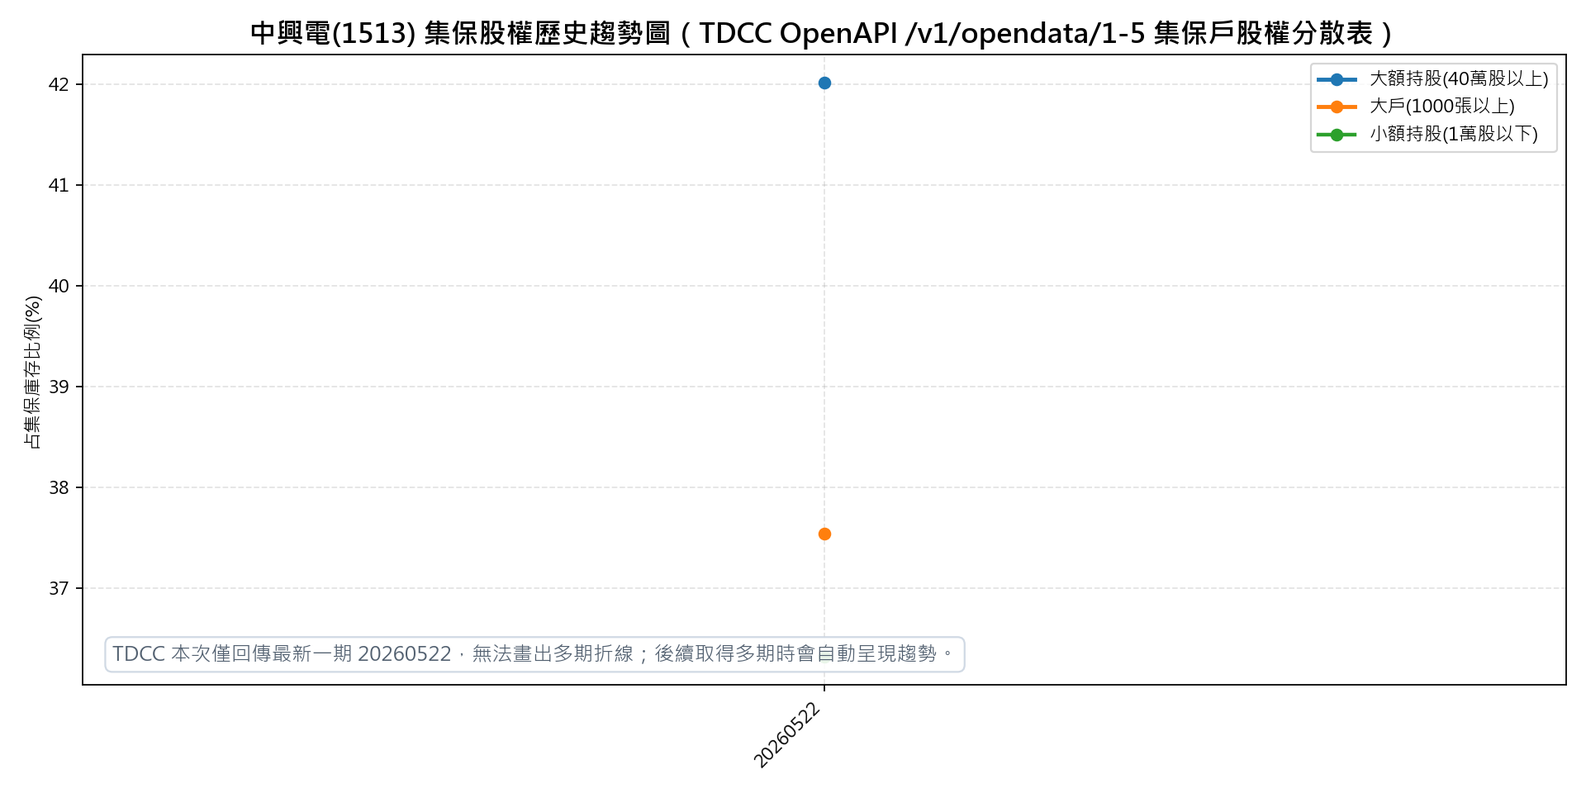
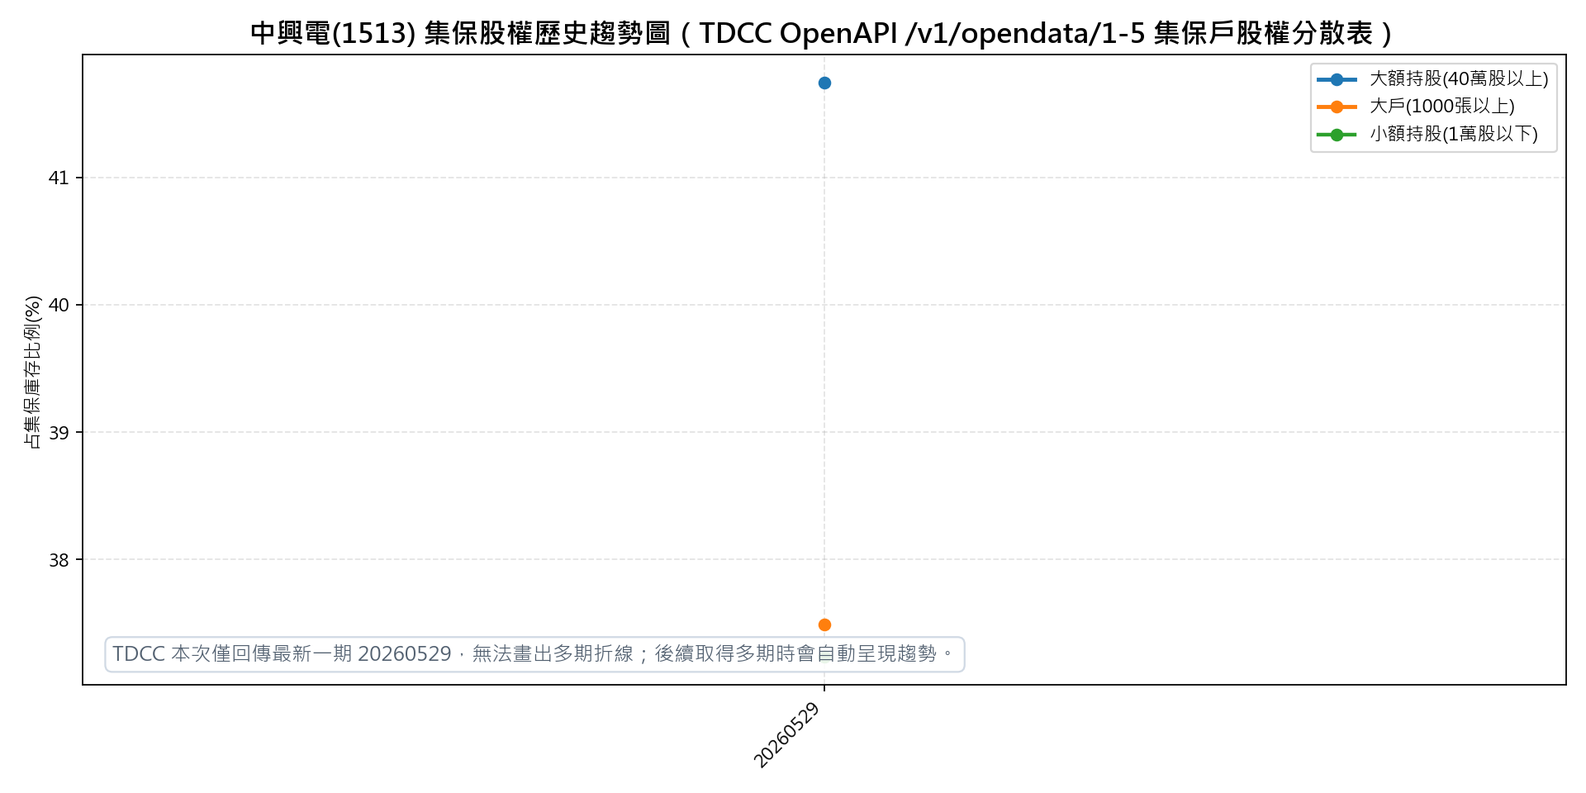
Publish stock report 1513_2026-05-30

diff --git a/1513_2026-05-30/index.html b/1513_2026-05-30/index.html
@@ -72,13 +72,22 @@
     details[open] > summary::after { content: "收合"; }
     .detail-body { padding: 0 16px 16px; }
     .detail-body ul { margin: 0; padding-left: 20px; line-height: 1.75; }
+    .summary-decision {
+      border-left: 4px solid #2563eb;
+      background: #eff6ff;
+      color: #0f172a;
+      padding: 10px 12px;
+      margin-bottom: 10px;
+      font-weight: 700;
+      line-height: 1.55;
+    }
     .summary-grid { display: grid; grid-template-columns: repeat(4, minmax(0, 1fr)); gap: 10px; }
     .summary-card {
       border: 1px solid #dde4ef;
       border-radius: 8px;
       padding: 12px;
       background: #f8fafc;
-      min-height: 82px;
+      min-height: 78px;
     }
     .summary-card span { display: block; color: #64748b; font-size: 13px; margin-bottom: 7px; }
     .summary-card strong { display: block; color: #111827; font-size: 15px; line-height: 1.45; }
@@ -114,6 +123,7 @@
       .table-scroll th, .table-scroll td { display: table-cell; width: auto; min-width: 120px; padding: 7px 8px; border-bottom: 1px solid #e7ebf2; }
       .table-scroll tr { display: table-row; border-bottom: 0; padding: 0; }
       .summary-grid { grid-template-columns: repeat(2, minmax(0, 1fr)); gap: 8px; }
+      .summary-decision { padding: 9px 10px; font-size: 13px; }
       .summary-card { min-height: auto; padding: 9px; }
       .summary-card strong { font-size: 13px; }
       .freshness-grid { grid-template-columns: repeat(2, minmax(0, 1fr)); gap: 8px; }
@@ -134,17 +144,20 @@
 <body>
   <header>
     <h1>中興電(1513) 台股技術分析報告</h1>
-    <div>產生時間：2026-05-30T22:52:28+08:00</div>
+    <div>產生時間：2026-05-30T23:38:03+08:00</div>
   </header>
   <main>
     
     <section class="panel conclusion">
       <h2>結論摘要</h2>
+      <div class="summary-decision">偏多強勢，偏多震盪 / 偏多震盪 / 中性 185 元；現價差 -10.2%；合理偏低區：若技術面轉強，具估值修復條件</div>
       <div class="summary-grid"><div class="summary-card"><span>趨勢</span><strong>偏多強勢，偏多震盪</strong></div>
-<div class="summary-card"><span>明日觀察</span><strong>量價中性偏弱；MA5 165.20 / MA10 158.40</strong></div>
-<div class="summary-card"><span>買賣點</span><strong>買：已突破 162.30 且站穩，回測不破可偏多續抱；賣：跌破 158.40，先降權重；上升通道有效分數 7.4。</strong></div>
-<div class="summary-card"><span>支撐</span><strong>第一 165.20 / 第二 158.40 / 強 156.88</strong></div>
-<div class="summary-card"><span>壓力</span><strong>177.00</strong></div>
+<div class="summary-card"><span>估值</span><strong>中性 185 元；現價差 -10.2%；合理偏低區：若技術面轉強，具估值修復條件</strong></div>
+<div class="summary-card"><span>支撐 / 壓力</span><strong>第一 165.20 / 第二 158.40 / 強 156.88 / 壓力 177.00</strong></div>
+<div class="summary-card"><span>觀察</span><strong>量價中性偏弱；MA5 165.20 / MA10 158.40</strong></div>
+<div class="summary-card"><span>買點</span><strong>已突破 162.30 且站穩，回測不破可偏多續抱</strong></div>
+<div class="summary-card"><span>賣點 / 風險</span><strong>跌破 158.40，先降權重；跌破 MA10 158.40 且放量，短線轉弱
+跌破 MA20 156.88 則整理擴大</strong></div>
 <div class="summary-card"><span>獲利率</span><strong>毛利率 25.98% / 營益率 18.54%</strong></div></div>
     </section>
     
@@ -156,7 +169,7 @@
 <li><span>季報</span><strong>2026-03-31</strong></li>
 <li><span>法人</span><strong>2026-05-29</strong></li>
 <li><span>融資融券</span><strong>2026-05-29</strong></li>
-<li><span>集保</span><strong>20260522</strong></li>
+<li><span>集保</span><strong>20260529</strong></li>
 <li><span>ETF</span><strong>2026-05-29</strong></li></ul>
     </section>
     
@@ -165,39 +178,34 @@
       <h2>GPT-5.5 深度分析</h2>
       <div class="deep-analysis-body">
         <h2>中興電(1513) 深度分析</h2>
-<ul><li>產生時間：2026-05-30T22:52:31+08:00</li></ul>
+<ul><li>產生時間：2026-05-30T23:20:53+08:00</li></ul>
 <h3>1. 核心結論</h3>
 <p>中興電(1513)：偏多強勢，偏多震盪；站穩 MA10 158.40 並突破 177.00 才有續攻機會，跌破 MA20 156.88 轉防守。</p>
-<h3>2. 技術面</h3>
-<ul><li>觀察重點：量價中性偏弱；明日觀察 MA5 165.20 / MA10 158.40</li><li>支撐：第一 165.20 / 第二 158.40 / 強 156.88</li><li>壓力：177.00</li><li>風險：跌破 MA10 158.40 且放量，短線轉弱；跌破 MA20 156.88 則整理擴大</li></ul>
+<h3>2. 技術面與操作</h3>
+<ul><li>觀察重點：量價中性偏弱；明日觀察 MA5 165.20 / MA10 158.40</li><li>支撐：第一 165.20 / 第二 158.40 / 強 156.88</li><li>壓力：177.00</li><li>風險：跌破 MA10 158.40 且放量，短線轉弱；跌破 MA20 156.88 則整理擴大</li><li>買賣點建議：買點：已突破 162.30 且站穩，回測不破可偏多續抱；賣點：跌破 158.40，先降權重。依據：上升通道有效分數 7.4。</li></ul>
 <h3>3. 基本面與獲利率</h3>
-<ul><li>基本面狀態：月營收、估值與正式 EPS 已取得</li><li>是否支持股價：支持度中性。理由：近 3 個月營收動能轉弱、最新月營收年增為正、正式 EPS 年增、毛利率較去年同期改善、稅後淨利率較去年同期改善、ROE 較去年同期下滑、營業費用率較去年同期上升。</li><li>財報推算股價：保守 139 元 / 中性 185 元 / 樂觀 220 元；產業模型：訂單能見度 PER（PER 下限 9.0x / 上限 35.0x）；近四季 EPS 8.23；前瞻 EPS 估 9.34（成長假設 +13.5%）；估值 PER 16.9x / 19.8x / 23.5x；催化溢價：營業利益率具支撐（+3%）；目前 PER 20.2x 納入中性估值權重；歷史 PER 分位 Q25/Q50/Q75=19.4x/21.1x/22.6x；目前 PER 位於近一年 43% 分位；市場情境 20x/25x/30x=165/206/247 元；ROE/PB 交叉參考 44 元；現價 166.50 元，較中性估值 -10.2%；現價略低於中性估值；合理偏低區：若技術面轉強，具估值修復條件</li><li>細節請看基本面圖表與摘要表格。</li></ul>
-<h3>4. 新聞與同族群</h3>
-<ul><li>新聞狀態：新聞面偏利多（利多 1 / 利空 0 / 中性 8）</li><li>公告 / 法說：近 120 天公告/法說追蹤 4 則（法說會 0 / 公告 4）</li><li>同族群比較：中興電(1513)、華城(1519)、東元(1504)、士電(1503)、大同(2371)</li><li>產業定位 / 產品組合：中興電(1513) 定位：重電設備 / 變壓器 / 電力工程；主要產品：族群共通：變壓器、開關設備、配電盤、電力工程；同族群比較基準：重電 / 變壓器 / 電力設備。對照族群涵蓋：重電設備 / 變壓器 / 電力工程。</li></ul>
-<h3>5. 操作情境</h3>
-<ul><li>買賣點建議：買點：已突破 162.30 且站穩，回測不破可偏多續抱；賣點：跌破 158.40，先降權重。依據：上升通道有效分數 7.4。</li><li>偏多：站穩支撐並突破壓力。</li><li>中性：支撐與壓力間震盪，等待方向。</li><li>轉弱：跌破支撐或失守均線，先降部位。</li></ul>
-<h3>6. LINE 短摘要</h3>
-<p>中興電(1513)：偏多強勢，偏多震盪；站穩 MA10 158.40 並突破 177.00 才有續攻機會，跌破 MA20 156.88 轉防守。 觀察支撐 第一 165.20 / 第二 158.40 / 強 156.88、壓力 177.00。</p>
-<p>&gt; 備註：Codex 本地分析模式；未使用 OpenAI API。</p>
+<ul><li>基本面狀態：月營收、估值與正式 EPS 已取得</li><li>是否支持股價：支持度中性。理由：近 3 個月營收動能轉弱、最新月營收年增為正、正式 EPS 年增、毛利率較去年同期改善、稅後淨利率較去年同期改善、ROE 較去年同期下滑、營業費用率較去年同期上升。</li><li>財報推算股價：保守 139 / 中性 185 / 樂觀 220 元；模型：訂單能見度 PER（PER 下限 9.0x / 上限 35.0x）；現價 166.50 元，較中性 -10.2%；合理偏低區：若技術面轉強，具估值修復條件</li></ul>
+<h3>4. 操作情境</h3>
+<ul><li>偏多：站穩支撐並突破壓力。</li><li>中性：支撐與壓力間震盪，等待方向。</li><li>轉弱：跌破支撐或失守均線，先降部位。</li></ul>
       </div>
     </section>
     
     
         <section class="panel chart-panel">
           <h2>01_日線完整技術與籌碼分析圖</h2>
-          <img src="01_日線完整技術與籌碼分析圖.png?v=2026-05-30T22:52:28+08:00" alt="01_日線完整技術與籌碼分析圖">
+          <img src="01_日線完整技術與籌碼分析圖.png?v=2026-05-30T23:38:03+08:00" alt="01_日線完整技術與籌碼分析圖">
         </section>
         
 
         <section class="panel chart-panel">
           <h2>02_周線完整技術與趨勢分析圖</h2>
-          <img src="02_周線完整技術與趨勢分析圖.png?v=2026-05-30T22:52:28+08:00" alt="02_周線完整技術與趨勢分析圖">
+          <img src="02_周線完整技術與趨勢分析圖.png?v=2026-05-30T23:38:03+08:00" alt="02_周線完整技術與趨勢分析圖">
         </section>
         
 
         <section class="panel chart-panel">
           <h2>03_月線完整技術與長期趨勢分析圖</h2>
-          <img src="03_月線完整技術與長期趨勢分析圖.png?v=2026-05-30T22:52:28+08:00" alt="03_月線完整技術與長期趨勢分析圖">
+          <img src="03_月線完整技術與長期趨勢分析圖.png?v=2026-05-30T23:38:03+08:00" alt="03_月線完整技術與長期趨勢分析圖">
         </section>
         
     
@@ -223,6 +231,25 @@
         </table>
       </div>
     
+      <h3>多模型股價參考</h3>
+      <div class="table-scroll">
+        <table>
+          <thead>
+            <tr>
+              <th>模型</th>
+              <th>參考價</th>
+              <th>依據</th>
+            </tr>
+          </thead>
+          <tbody><tr><td>EPS/PER</td><td class="cell-number">185</td><td>前瞻 EPS 9.34 × 中性 PER 19.8x</td></tr>
+<tr><td>PBR/ROE</td><td class="cell-number">44</td><td>ROE 對應合理 PBR</td></tr>
+<tr><td>技術型態</td><td class="cell-number">175</td><td>上升通道 突破量測目標</td></tr>
+<tr><td>法人籌碼成本</td><td class="cell-number">155</td><td>外資 / 投信近20與60日加碼成本</td></tr>
+<tr><td>同族群動能</td><td class="cell-number">208</td><td>同族群中位報酬 +42.3% / 本股 +10.3%</td></tr>
+<tr><td>殖利率</td><td class="cell-number">202</td><td>歷史殖利率中位數回推</td></tr></tbody>
+        </table>
+      </div>
+    
       <div class="table-scroll">
         <table>
           <thead>
@@ -235,7 +262,7 @@
           <tbody><tr><td>月營收趨勢</td><td>2026-04 月營收 23.08 億元；MoM -6.87%；YoY 5.86%；近 3 個月累計 YoY -0.50%；近 12 個月滾動營收 YoY 5.47%；連續 2 個月年增為正</td><td>營收動能</td></tr>
 <tr><td>獲利率</td><td>2026Q1 毛利率 25.98%（年變化 +0.55 個百分點）、營業利益率 18.54%（年變化 -0.20 個百分點）</td><td>毛利率 / 營業利益率</td></tr>
 <tr><td>季報細項</td><td>2026Q1 營業費用率 7.44%（年變化 +0.74 個百分點）、稅後淨利率 14.79%（年變化 +1.18 個百分點）、ROE 1.97%（年變化 -2.52 個百分點）</td><td>營業費用率 / 稅後淨利率 / ROE</td></tr>
-<tr><td>財報推算股價</td><td>保守 139 元 / 中性 185 元 / 樂觀 220 元；產業模型：訂單能見度 PER（PER 下限 9.0x / 上限 35.0x）；近四季 EPS 8.23；前瞻 EPS 估 9.34（成長假設 +13.5%）；估值 PER 16.9x / 19.8x / 23.5x；催化溢價：營業利益率具支撐（+3%）；目前 PER 20.2x 納入中性估值權重；歷史 PER 分位 Q25/Q50/Q75=19.4x/21.1x/22.6x；目前 PER 位於近一年 43% 分位；市場情境 20x/25x/30x=165/206/247 元；ROE/PB 交叉參考 44 元；現價 166.50 元，較中性估值 -10.2%；現價略低於中性估值；合理偏低區：若技術面轉強，具估值修復條件</td><td>EPS / ROE / 獲利率</td></tr>
+<tr><td>財報推算股價</td><td>估值區間：保守 139 / 中性 185 / 樂觀 220 元<br>模型：訂單能見度 PER（PER 下限 9.0x / 上限 35.0x）<br>假設：EPS 9.34，PER 16.9x / 19.8x / 23.5x<br>多模型中位：185 元<br>現價：166.50 元，較中性估值 -10.2%<br>判讀：合理偏低區：若技術面轉強，具估值修復條件</td><td>EPS / ROE / 獲利率</td></tr>
 <tr><td>估值狀態</td><td>月營收、估值與正式 EPS 已取得</td><td>PER / PBR / EPS</td></tr></tbody>
         </table>
       </div>
@@ -246,7 +273,7 @@
     
         <section class="panel chart-panel">
           <h2>06_基本面分析圖</h2>
-          <img src="06_基本面分析圖.png?v=2026-05-30T22:52:28+08:00" alt="06_基本面分析圖">
+          <img src="06_基本面分析圖.png?v=2026-05-30T23:38:03+08:00" alt="06_基本面分析圖">
         </section>
         
     
@@ -307,7 +334,7 @@
     
         <section class="panel chart-panel">
           <h2>05_同族群比較分析圖</h2>
-          <img src="05_同族群比較分析圖.png?v=2026-05-30T22:52:28+08:00" alt="05_同族群比較分析圖">
+          <img src="05_同族群比較分析圖.png?v=2026-05-30T23:38:03+08:00" alt="05_同族群比較分析圖">
         </section>
         
     
@@ -395,7 +422,7 @@
 
     <details class="panel detail-panel">
       <summary>七之二、集保股權分散資訊</summary>
-      <div class="detail-body"><ul><li>集保戶數合計 154,407 人，集保股數合計 503,112,515 股。</li><li>小額持股（1～10,000 股）占 36.32%；中階持股（50,001～400,000 股）占 9.42%；大額持股（400,001 股以上）占 42.01%，其中百萬股以上占 37.54%。</li><li>集保結構判斷：籌碼較分散。散戶與中小持股比重較高，股價上攻時更需要成交量與法人買盤配合。</li><li>散戶化觀察：小額持股占比偏高，短線若遇利空或跌破支撐，籌碼容易比較浮動。</li><li>限制：TDCC 集保資料通常是每週最後營業日結束後的持股級距統計，能看籌碼集中或分散，但不能知道是哪位自然人或哪家主力在買賣。</li></ul></div>
+      <div class="detail-body"><ul><li>集保戶數合計 159,983 人，集保股數合計 503,112,515 股。</li><li>小額持股（1～10,000 股）占 37.24%；中階持股（50,001～400,000 股）占 8.93%；大額持股（400,001 股以上）占 41.74%，其中百萬股以上占 37.49%。</li><li>集保結構判斷：籌碼較分散。散戶與中小持股比重較高，股價上攻時更需要成交量與法人買盤配合。</li><li>散戶化觀察：小額持股占比偏高，短線若遇利空或跌破支撐，籌碼容易比較浮動。</li><li>限制：TDCC 集保資料通常是每週最後營業日結束後的持股級距統計，能看籌碼集中或分散，但不能知道是哪位自然人或哪家主力在買賣。</li></ul></div>
     </details>
     
 
@@ -447,23 +474,23 @@
               <th>占集保庫存比例</th>
             </tr>
           </thead>
-          <tbody><tr><td>1</td><td>1-999 股</td><td class="cell-number">72,874</td><td class="cell-number">9,466,159</td><td class="cell-number">1.88%</td></tr>
-<tr><td>2</td><td>1,000-5,000 股</td><td class="cell-number">72,417</td><td class="cell-number">130,200,744</td><td class="cell-number">25.87%</td></tr>
-<tr><td>3</td><td>5,001-10,000 股</td><td class="cell-number">5,545</td><td class="cell-number">43,119,591</td><td class="cell-number">8.57%</td></tr>
-<tr><td>4</td><td>10,001-15,000 股</td><td class="cell-number">1,380</td><td class="cell-number">17,723,891</td><td class="cell-number">3.52%</td></tr>
-<tr><td>5</td><td>15,001-20,000 股</td><td class="cell-number">773</td><td class="cell-number">14,383,263</td><td class="cell-number">2.85%</td></tr>
-<tr><td>6</td><td>20,001-30,000 股</td><td class="cell-number">559</td><td class="cell-number">14,366,833</td><td class="cell-number">2.85%</td></tr>
-<tr><td>7</td><td>30,001-40,000 股</td><td class="cell-number">230</td><td class="cell-number">8,300,627</td><td class="cell-number">1.64%</td></tr>
-<tr><td>8</td><td>40,001-50,000 股</td><td class="cell-number">141</td><td class="cell-number">6,606,223</td><td class="cell-number">1.31%</td></tr>
-<tr><td>9</td><td>50,001-100,000 股</td><td class="cell-number">248</td><td class="cell-number">17,979,847</td><td class="cell-number">3.57%</td></tr>
-<tr><td>10</td><td>100,001-200,000 股</td><td class="cell-number">111</td><td class="cell-number">14,954,747</td><td class="cell-number">2.97%</td></tr>
-<tr><td>11</td><td>200,001-400,000 股</td><td class="cell-number">49</td><td class="cell-number">14,525,011</td><td class="cell-number">2.88%</td></tr>
-<tr><td>12</td><td>400,001-600,000 股</td><td class="cell-number">20</td><td class="cell-number">9,835,041</td><td class="cell-number">1.95%</td></tr>
-<tr><td>13</td><td>600,001-800,000 股</td><td class="cell-number">12</td><td class="cell-number">8,250,998</td><td class="cell-number">1.63%</td></tr>
-<tr><td>14</td><td>800,001-1,000,000 股</td><td class="cell-number">5</td><td class="cell-number">4,499,535</td><td class="cell-number">0.89%</td></tr>
-<tr><td>15</td><td>1,000,001 股以上</td><td class="cell-number">43</td><td class="cell-number">188,900,005</td><td class="cell-number">37.54%</td></tr>
+          <tbody><tr><td>1</td><td>1-999 股</td><td class="cell-number">74,500</td><td class="cell-number">9,500,366</td><td class="cell-number">1.88%</td></tr>
+<tr><td>2</td><td>1,000-5,000 股</td><td class="cell-number">76,461</td><td class="cell-number">134,606,644</td><td class="cell-number">26.75%</td></tr>
+<tr><td>3</td><td>5,001-10,000 股</td><td class="cell-number">5,532</td><td class="cell-number">43,334,788</td><td class="cell-number">8.61%</td></tr>
+<tr><td>4</td><td>10,001-15,000 股</td><td class="cell-number">1,319</td><td class="cell-number">16,932,892</td><td class="cell-number">3.36%</td></tr>
+<tr><td>5</td><td>15,001-20,000 股</td><td class="cell-number">777</td><td class="cell-number">14,503,525</td><td class="cell-number">2.88%</td></tr>
+<tr><td>6</td><td>20,001-30,000 股</td><td class="cell-number">565</td><td class="cell-number">14,567,692</td><td class="cell-number">2.89%</td></tr>
+<tr><td>7</td><td>30,001-40,000 股</td><td class="cell-number">222</td><td class="cell-number">8,066,609</td><td class="cell-number">1.60%</td></tr>
+<tr><td>8</td><td>40,001-50,000 股</td><td class="cell-number">138</td><td class="cell-number">6,483,584</td><td class="cell-number">1.28%</td></tr>
+<tr><td>9</td><td>50,001-100,000 股</td><td class="cell-number">241</td><td class="cell-number">17,482,243</td><td class="cell-number">3.47%</td></tr>
+<tr><td>10</td><td>100,001-200,000 股</td><td class="cell-number">106</td><td class="cell-number">14,160,461</td><td class="cell-number">2.81%</td></tr>
+<tr><td>11</td><td>200,001-400,000 股</td><td class="cell-number">45</td><td class="cell-number">13,362,450</td><td class="cell-number">2.65%</td></tr>
+<tr><td>12</td><td>400,001-600,000 股</td><td class="cell-number">15</td><td class="cell-number">7,483,715</td><td class="cell-number">1.48%</td></tr>
+<tr><td>13</td><td>600,001-800,000 股</td><td class="cell-number">13</td><td class="cell-number">8,661,086</td><td class="cell-number">1.72%</td></tr>
+<tr><td>14</td><td>800,001-1,000,000 股</td><td class="cell-number">6</td><td class="cell-number">5,332,583</td><td class="cell-number">1.05%</td></tr>
+<tr><td>15</td><td>1,000,001 股以上</td><td class="cell-number">43</td><td class="cell-number">188,633,877</td><td class="cell-number">37.49%</td></tr>
 <tr><td>16</td><td>差異或調整數</td><td class="cell-number">0</td><td class="cell-number">0</td><td class="cell-number">0.00%</td></tr>
-<tr><td>17</td><td>合計</td><td class="cell-number">154,407</td><td class="cell-number">503,112,515</td><td class="cell-number">100.00%</td></tr></tbody>
+<tr><td>17</td><td>合計</td><td class="cell-number">159,983</td><td class="cell-number">503,112,515</td><td class="cell-number">100.00%</td></tr></tbody>
         </table>
         </div>
     </div>
@@ -489,7 +516,7 @@
               <th>戶數變化</th>
             </tr>
           </thead>
-          <tbody><tr><td>20260522</td><td class="cell-number">+154,407</td><td class="cell-number">36.32%</td><td class="cell-number">42.01%</td><td class="cell-number">37.54%</td><td class="cell-number">-</td><td class="cell-number">-</td><td class="cell-number">-</td><td class="cell-number">-</td></tr></tbody>
+          <tbody><tr><td>20260529</td><td class="cell-number">+159,983</td><td class="cell-number">37.24%</td><td class="cell-number">41.74%</td><td class="cell-number">37.49%</td><td class="cell-number">-</td><td class="cell-number">-</td><td class="cell-number">-</td><td class="cell-number">-</td></tr></tbody>
         </table>
         </div>
     </div>
@@ -501,7 +528,7 @@
       <div class="detail-body"><ul><li>權證人氣偏多但偏投機，只能輔助現股判斷；現股不續強時權證容易快速降溫</li><li>認購成交占 99.90%，近價外認購 23 檔，前五大成交占 45.00%</li><li>現股距認購主流履約價仍有 23.16% 空間，屬高想像但投機風險也高</li></ul>
         <section class="panel chart-panel">
           <h2>04_權證完整分析圖</h2>
-          <img src="04_權證完整分析圖.png?v=2026-05-30T22:52:28+08:00" alt="04_權證完整分析圖">
+          <img src="04_權證完整分析圖.png?v=2026-05-30T23:38:03+08:00" alt="04_權證完整分析圖">
         </section>
         
       <div class="table-scroll">

diff --git a/1513_2026-05-30/deep_analysis.md b/1513_2026-05-30/deep_analysis.md
@@ -1,38 +1,26 @@
 # 中興電(1513) 深度分析
 
-- 產生時間：2026-05-30T22:52:31+08:00
+- 產生時間：2026-05-30T23:20:53+08:00
 - 模型：codex-local
 - reasoning_effort：none
 
 ## 1. 核心結論
 中興電(1513)：偏多強勢，偏多震盪；站穩 MA10 158.40 並突破 177.00 才有續攻機會，跌破 MA20 156.88 轉防守。
 
-## 2. 技術面
+## 2. 技術面與操作
 - 觀察重點：量價中性偏弱；明日觀察 MA5 165.20 / MA10 158.40
 - 支撐：第一 165.20 / 第二 158.40 / 強 156.88
 - 壓力：177.00
 - 風險：跌破 MA10 158.40 且放量，短線轉弱；跌破 MA20 156.88 則整理擴大
+- 買賣點建議：買點：已突破 162.30 且站穩，回測不破可偏多續抱；賣點：跌破 158.40，先降權重。依據：上升通道有效分數 7.4。
 
 ## 3. 基本面與獲利率
 - 基本面狀態：月營收、估值與正式 EPS 已取得
 - 是否支持股價：支持度中性。理由：近 3 個月營收動能轉弱、最新月營收年增為正、正式 EPS 年增、毛利率較去年同期改善、稅後淨利率較去年同期改善、ROE 較去年同期下滑、營業費用率較去年同期上升。
-- 財報推算股價：保守 139 元 / 中性 185 元 / 樂觀 220 元；產業模型：訂單能見度 PER（PER 下限 9.0x / 上限 35.0x）；近四季 EPS 8.23；前瞻 EPS 估 9.34（成長假設 +13.5%）；估值 PER 16.9x / 19.8x / 23.5x；催化溢價：營業利益率具支撐（+3%）；目前 PER 20.2x 納入中性估值權重；歷史 PER 分位 Q25/Q50/Q75=19.4x/21.1x/22.6x；目前 PER 位於近一年 43% 分位；市場情境 20x/25x/30x=165/206/247 元；ROE/PB 交叉參考 44 元；現價 166.50 元，較中性估值 -10.2%；現價略低於中性估值；合理偏低區：若技術面轉強，具估值修復條件
-- 細節請看基本面圖表與摘要表格。
+- 財報推算股價：保守 139 / 中性 185 / 樂觀 220 元；模型：訂單能見度 PER（PER 下限 9.0x / 上限 35.0x）；現價 166.50 元，較中性 -10.2%；合理偏低區：若技術面轉強，具估值修復條件
 
-## 4. 新聞與同族群
-- 新聞狀態：新聞面偏利多（利多 1 / 利空 0 / 中性 8）
-- 公告 / 法說：近 120 天公告/法說追蹤 4 則（法說會 0 / 公告 4）
-- 同族群比較：中興電(1513)、華城(1519)、東元(1504)、士電(1503)、大同(2371)
-- 產業定位 / 產品組合：中興電(1513) 定位：重電設備 / 變壓器 / 電力工程；主要產品：族群共通：變壓器、開關設備、配電盤、電力工程；同族群比較基準：重電 / 變壓器 / 電力設備。對照族群涵蓋：重電設備 / 變壓器 / 電力工程。
-
-## 5. 操作情境
-- 買賣點建議：買點：已突破 162.30 且站穩，回測不破可偏多續抱；賣點：跌破 158.40，先降權重。依據：上升通道有效分數 7.4。
+## 4. 操作情境
 - 偏多：站穩支撐並突破壓力。
 - 中性：支撐與壓力間震盪，等待方向。
 - 轉弱：跌破支撐或失守均線，先降部位。
-
-## 6. LINE 短摘要
-中興電(1513)：偏多強勢，偏多震盪；站穩 MA10 158.40 並突破 177.00 才有續攻機會，跌破 MA20 156.88 轉防守。 觀察支撐 第一 165.20 / 第二 158.40 / 強 156.88、壓力 177.00。
-
-> 備註：Codex 本地分析模式；未使用 OpenAI API。
 
